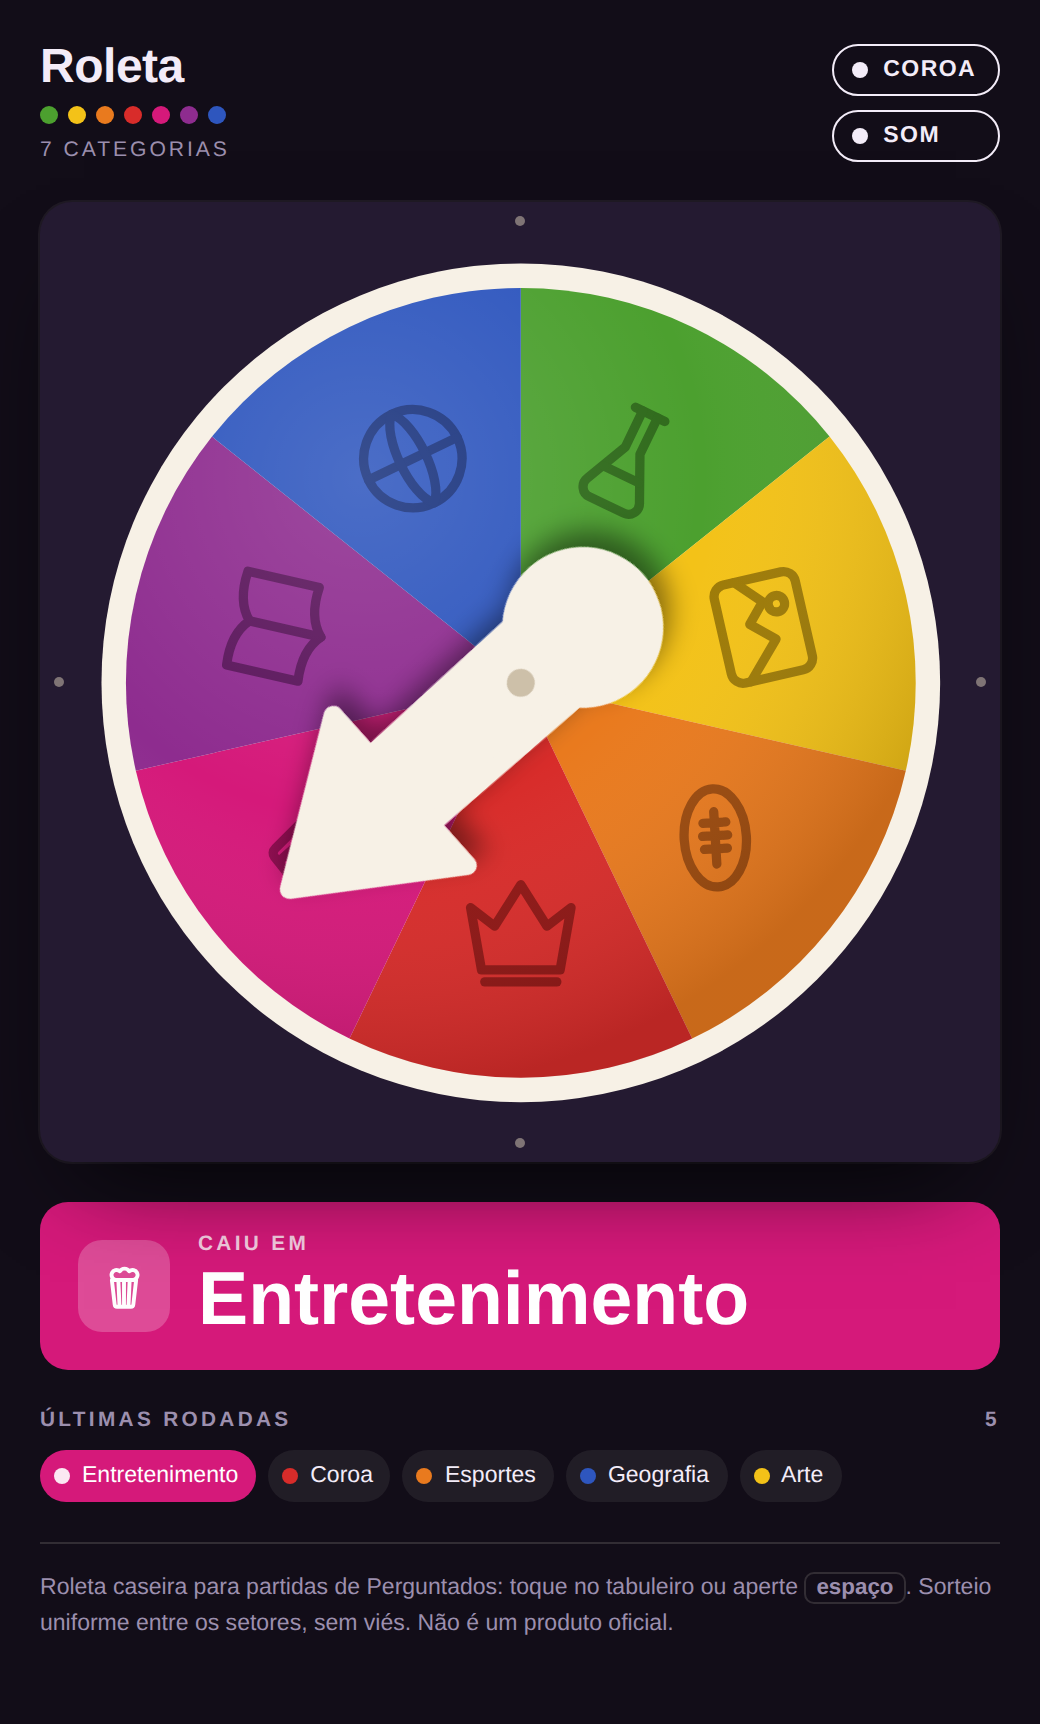
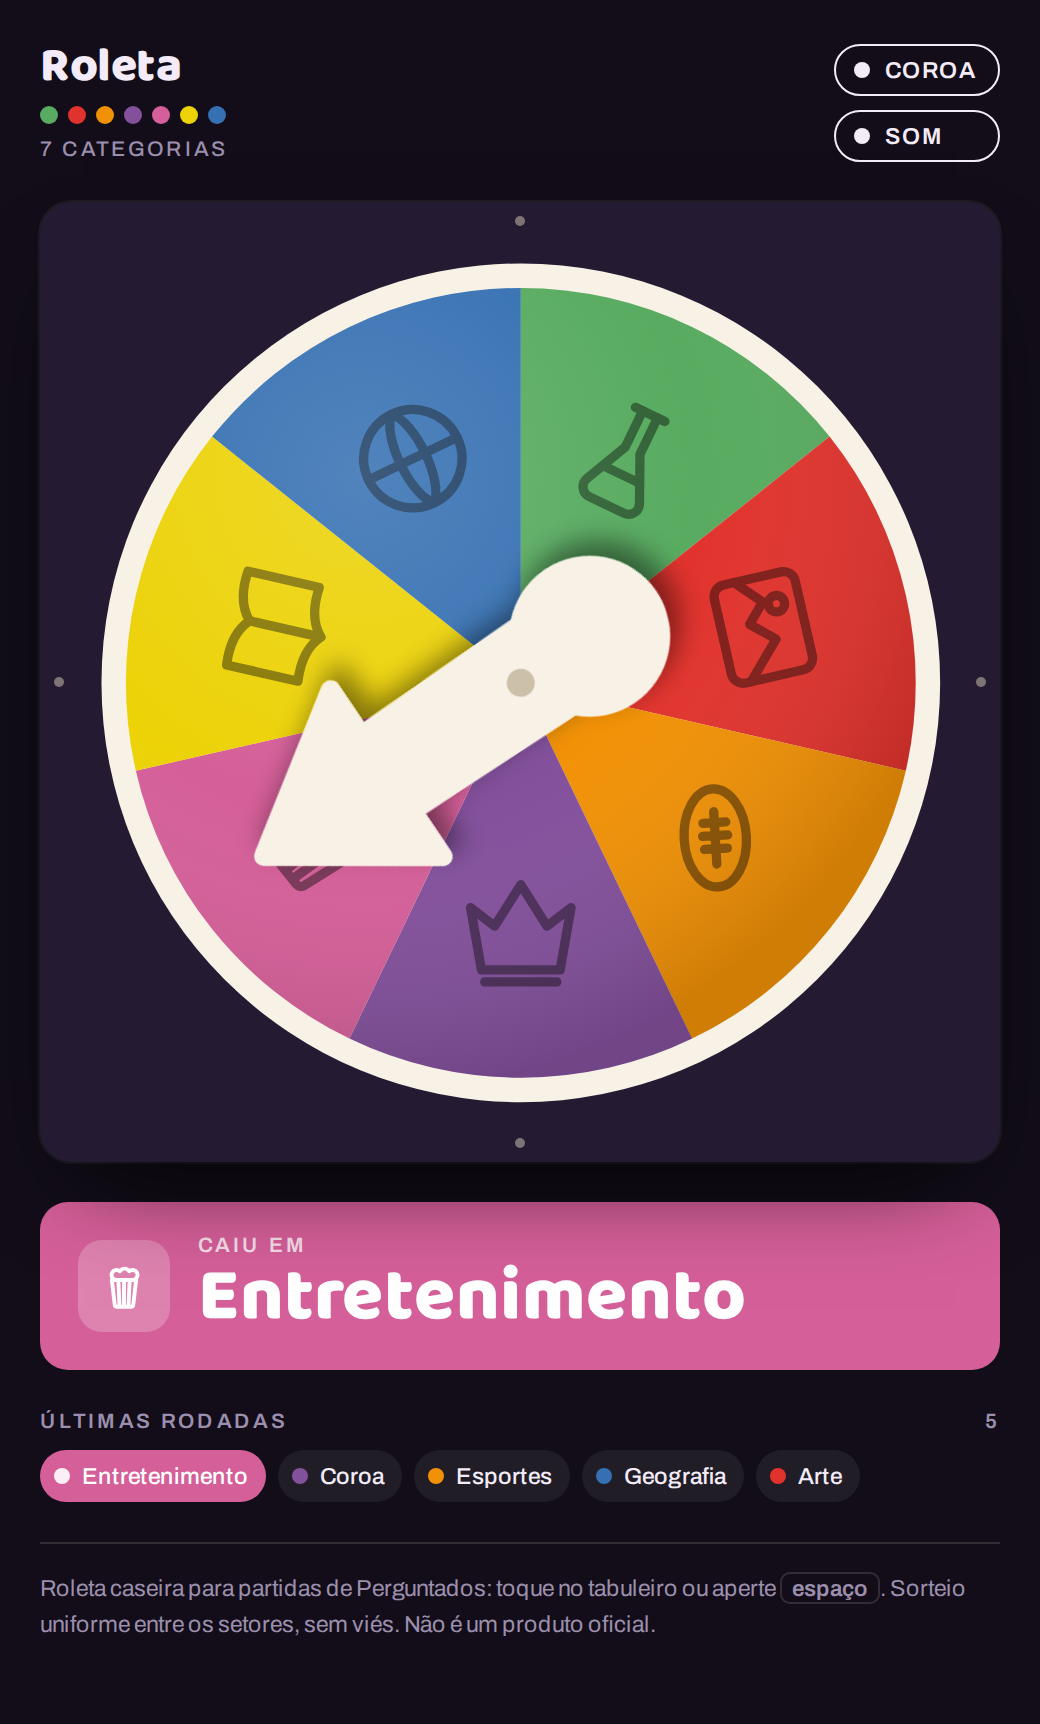
Match category colors to the card deck

diff --git a/index.html b/index.html
@@ -188,7 +188,7 @@
     font-size:.65rem;letter-spacing:.16em;text-transform:uppercase;font-weight:600;
     color:var(--muted);
   }
-  .result[data-state="hit"] .result-eyebrow{color:rgba(255,255,255,.78)}
+  .result[data-state="hit"] .result-eyebrow{color:var(--hit-soft,rgba(255,255,255,.78))}
   .result-name{
     font-family:"Baloo 2","Trebuchet MS",sans-serif;
     font-weight:800;
@@ -197,7 +197,7 @@
     text-wrap:balance;
     color:var(--ink);
   }
-  .result[data-state="hit"] .result-name{color:#fff}
+  .result[data-state="hit"] .result-name{color:var(--hit-ink,#fff)}
   .result[data-state="idle"] .result-name{color:var(--muted);font-size:clamp(1.15rem,5vw,1.45rem)}
 
   /* ---- history ---- */
@@ -216,8 +216,8 @@
     font-size:.72rem;font-weight:500;color:var(--ink);
     animation:pop .3s ease-out;
   }
-  .strip .chip:first-child{background:var(--dot);color:#fff}
-  .strip .chip:first-child .swatch{background:rgba(255,255,255,.9)}
+  .strip .chip:first-child{background:var(--dot);color:var(--chip-ink,#fff)}
+  .strip .chip:first-child .swatch{background:var(--chip-swatch,rgba(255,255,255,.9))}
   .strip .swatch{width:8px;height:8px;border-radius:50%;background:var(--dot)}
   .strip .empty{font-size:.78rem;color:var(--muted)}
   @keyframes pop{from{opacity:0;transform:translateY(-3px)}to{opacity:1;transform:none}}
@@ -350,14 +350,33 @@
   "use strict";
 
   var CATS = [
-    { id:'ciencias',      name:'Ciências',      color:'#4CA02F', ink:'#2A6118', icon:'ic-flask'   },
-    { id:'arte',          name:'Arte',          color:'#F3C218', ink:'#8F6E04', icon:'ic-canvas'  },
-    { id:'esportes',      name:'Esportes',      color:'#E97A1E', ink:'#8E410A', icon:'ic-ball'    },
-    { id:'coroa',         name:'Coroa',         color:'#D82C2A', ink:'#821110', icon:'ic-crown', optional:true },
-    { id:'entretenimento',name:'Entretenimento',color:'#D5197A', ink:'#800846', icon:'ic-popcorn' },
-    { id:'historia',      name:'História',      color:'#8E2C8F', ink:'#521253', icon:'ic-book'    },
-    { id:'geografia',     name:'Geografia',     color:'#2E56BE', ink:'#152C72', icon:'ic-globe'   }
+    { id:'ciencias',      name:'Ciências',      color:'#58AB60', ink:'#2C5630', icon:'ic-flask'   },
+    { id:'arte',          name:'Arte',          color:'#E1332D', ink:'#701A16', icon:'ic-canvas'  },
+    { id:'esportes',      name:'Esportes',      color:'#F19106', ink:'#784803', icon:'ic-ball'    },
+    { id:'coroa',         name:'Coroa',         color:'#83509C', ink:'#42284E', icon:'ic-crown', optional:true },
+    { id:'entretenimento',name:'Entretenimento',color:'#D55F99', ink:'#6A304C', icon:'ic-popcorn' },
+    { id:'historia',      name:'História',      color:'#ECD207', ink:'#766904', icon:'ic-book'    },
+    { id:'geografia',     name:'Geografia',     color:'#3570B2', ink:'#1A3859', icon:'ic-globe'   }
   ];
+
+  /* Text drawn on a category fill: white where it holds up, a dark tint of the fill where it does not.
+     História is a bright yellow (#ECD207) — white on it lands at 1.5:1, unreadable. */
+  function luminance(hex){
+    var v = [1,3,5].map(function(i){
+      var c = parseInt(hex.substr(i, 2), 16) / 255;
+      return c <= 0.03928 ? c / 12.92 : Math.pow((c + 0.055) / 1.055, 2.4);
+    });
+    return 0.2126 * v[0] + 0.7152 * v[1] + 0.0722 * v[2];
+  }
+  function shade(hex, k){
+    return '#' + [1,3,5].map(function(i){
+      var c = Math.max(0, Math.min(255, Math.round(parseInt(hex.substr(i, 2), 16) * k)));
+      return (c < 16 ? '0' : '') + c.toString(16);
+    }).join('');
+  }
+  function onFill(hex){
+    return 1.05 / (luminance(hex) + 0.05) >= 3 ? '#fff' : shade(hex, 0.25);
+  }
 
   var R = 45.2, START = -90, DUR = 4200;
   var el = {
@@ -533,10 +552,12 @@
 
   function finish(i){
     var c = active()[i];
+    var ink = onFill(c.color);
     state.spinning = false;
     el.board.disabled = false;
     el.result.style.setProperty('--hit', c.color);
-    el.result.style.setProperty('--hit-ink', '#fff');
+    el.result.style.setProperty('--hit-ink', ink);
+    el.result.style.setProperty('--hit-soft', ink === '#fff' ? 'rgba(255,255,255,.78)' : 'rgba(0,0,0,.62)');
     el.result.dataset.state = 'hit';
     el.eyebrow.textContent = 'caiu em';
     el.name.textContent = c.name;
@@ -553,8 +574,14 @@
       el.strip.innerHTML = '<span class="empty">Nenhuma rodada ainda.</span>';
       return;
     }
-    el.strip.innerHTML = state.history.map(function(c){
-      return '<span class="chip" style="--dot:' + c.color + '">' +
+    el.strip.innerHTML = state.history.map(function(c, i){
+      var style = '--dot:' + c.color;
+      if (i === 0){
+        var ink = onFill(c.color);
+        style += ';--chip-ink:' + ink +
+                 ';--chip-swatch:' + (ink === '#fff' ? 'rgba(255,255,255,.9)' : 'rgba(0,0,0,.55)');
+      }
+      return '<span class="chip" style="' + style + '">' +
              '<span class="swatch"></span>' + c.name + '</span>';
     }).join('');
   }
